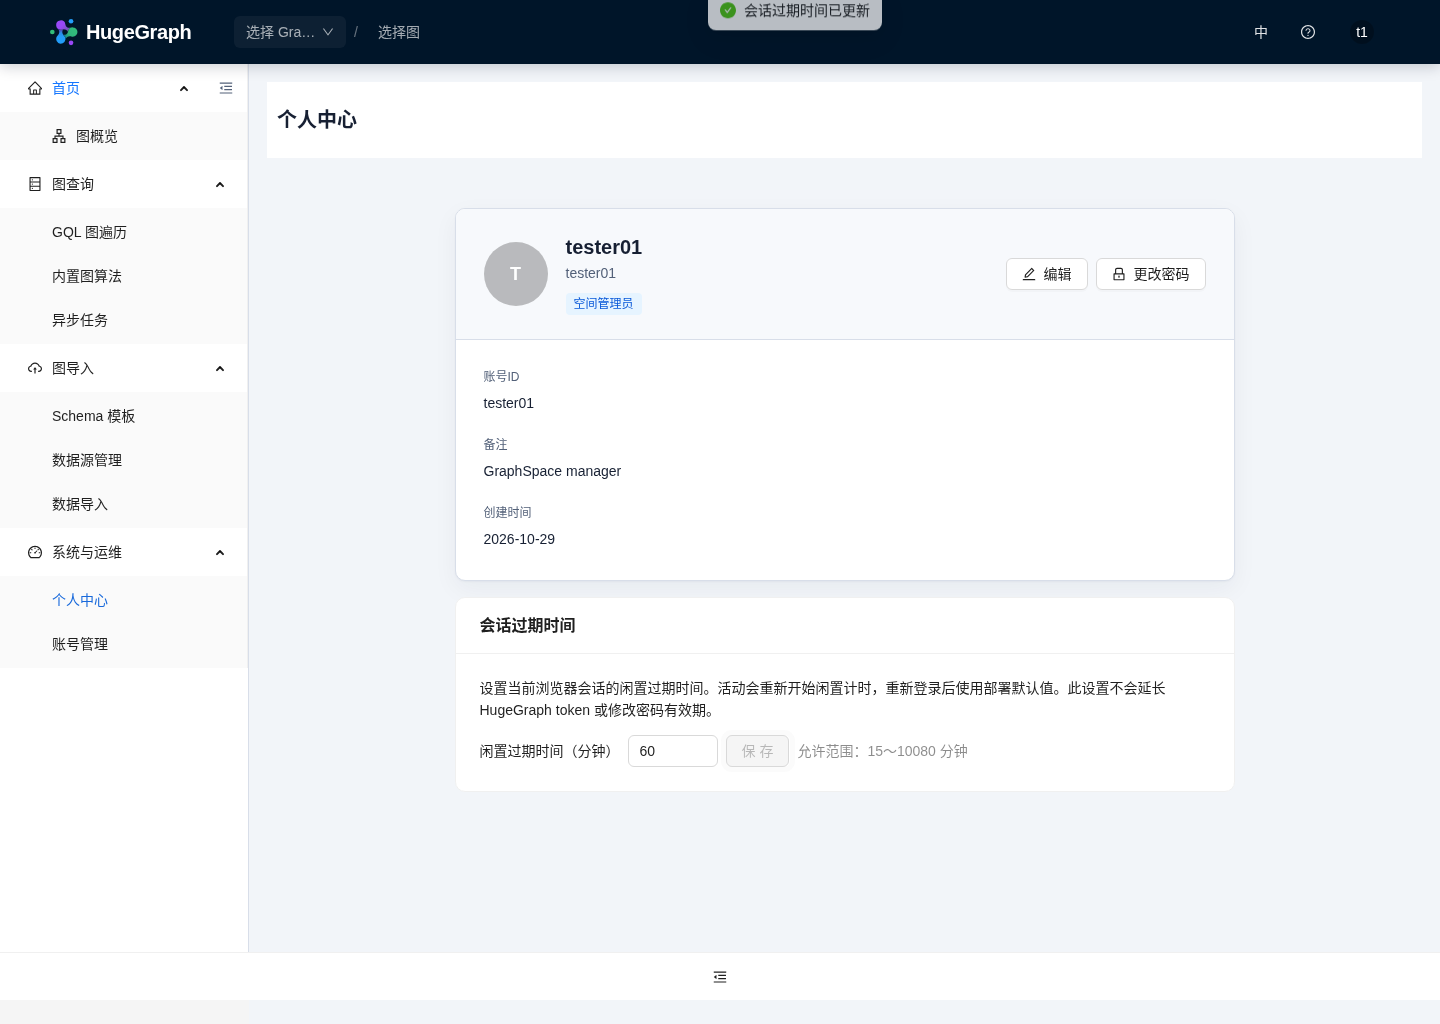
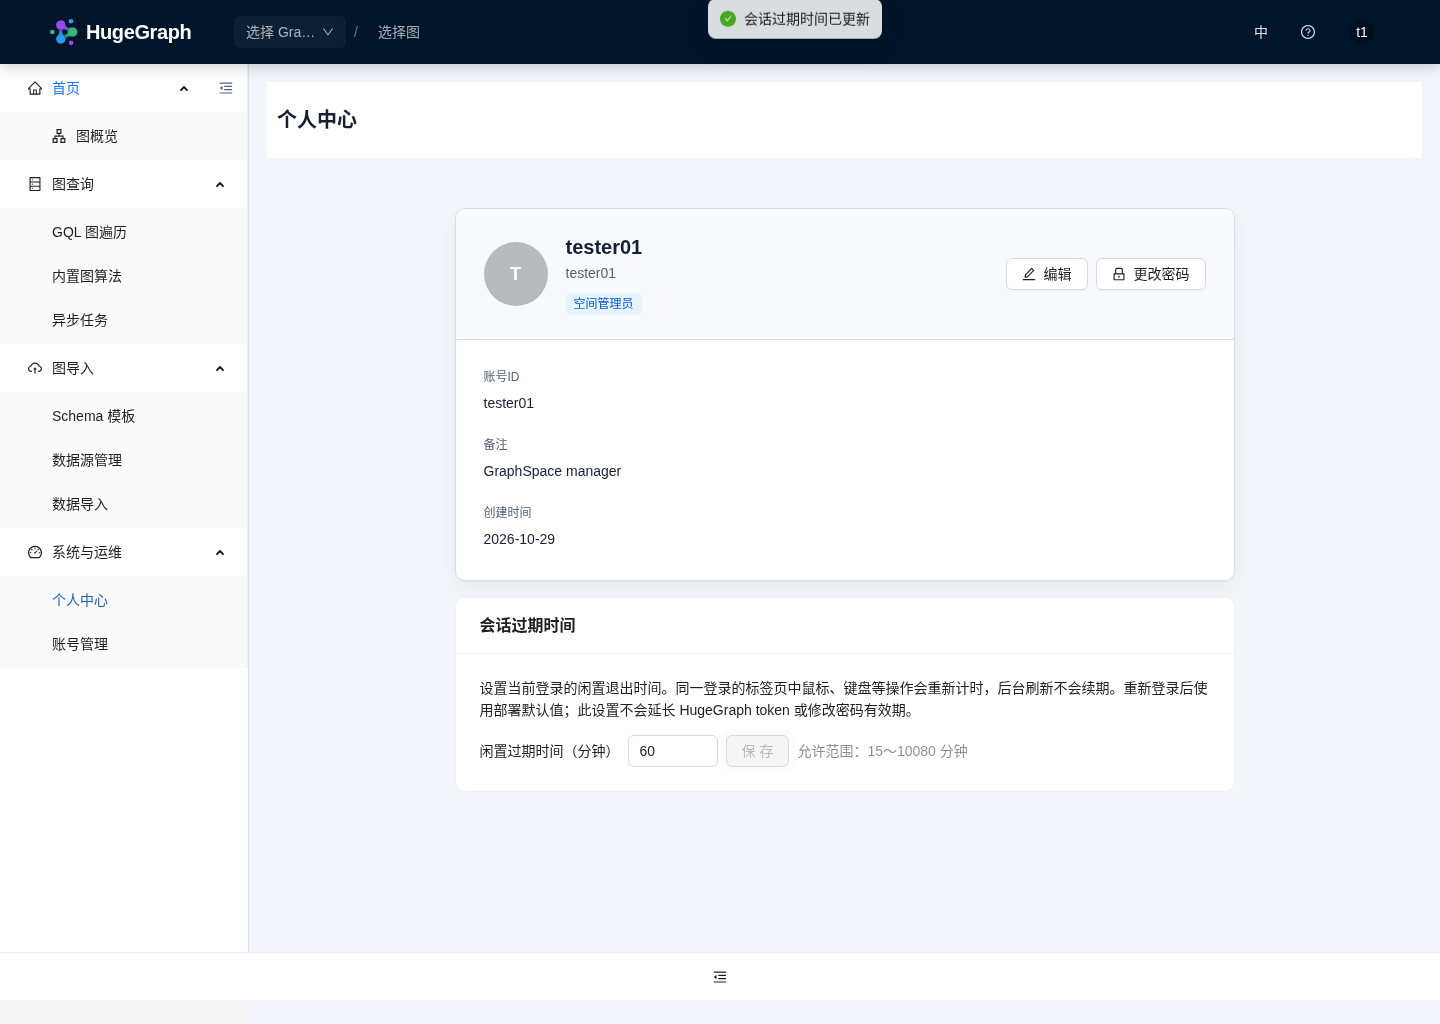
docs(hubble): explain and verify user idle logout across tabs

Changed region(s): [[0.3438, 0.6562, 0.8438, 0.7188], [0.4688, 0.0, 0.625, 0.0625]]

diff --git a/hugegraph-hubble/README.md b/hugegraph-hubble/README.md
@@ -414,16 +414,28 @@ current browser session to 15 minutes–7 days. The backend validates this range
 requires the existing username/token session; anonymous deployments expose no
 personal center or session settings.
 
-This is the interval without Hubble HTTP requests. Background refresh requests
-restart it too; it is not a mouse/keyboard inactivity timer. Signing in again uses
-the deployment default. It does not change the password lifetime or renew the
-HugeGraph token (currently issued for 30 days).
+An application-wide timer tracks mouse, keyboard and touch activity across tabs
+sharing the same login. Background requests do not extend this timer. Changing
+the setting applies immediately, and an expired timer calls the existing logout
+endpoint before clearing local account state (with a five-second local fallback
+if logout stalls). Anonymous mode never creates a session for this timer.
+The servlet request-idle timeout is also updated. Signing in again restores the
+original deployment timeout and starts a fresh, noncredential activity scope.
+This does not change the password lifetime or renew the HugeGraph token
+(currently issued for 30 days).
 
 The Chrome screenshot uses explicit API fixtures. The interaction check covers
 GraphSpace administrator display while legacy status says `USER`, saving 60 minutes
 as 3600 seconds, changing identity to a regular user, changing the connection mode
 to standalone admin, and anonymous account-page hiding; it is not live cluster or
-long-duration expiry acceptance.
+long-duration expiry acceptance. In a separate controlled-API App check,
+Playwright's browser clock advanced beyond a 15-minute timeout while background
+authorization refreshes continued to succeed; the existing logout endpoint ran
+and the app returned to login. Changing 15 to 30 minutes kept the session alive
+after the old deadline and logged it out after the updated deadline. These are
+simulated-time checks, not a 15/30-minute live-cluster soak. A second shared-login
+tab receiving keyboard input also kept both tabs alive beyond their original
+15-minute deadlines while background authorization requests remained successful.
 
 ![Personal role and session idle setting](docs/assets/personal-session-idle.png)
 
